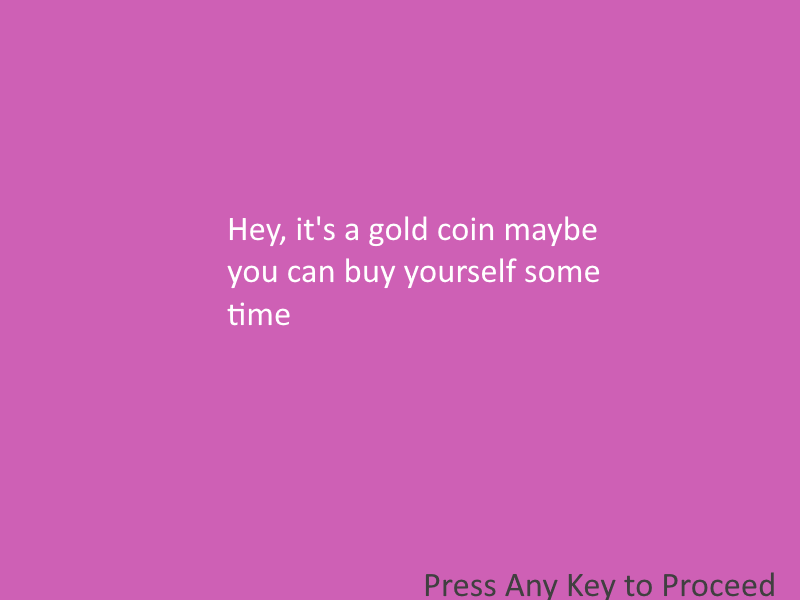
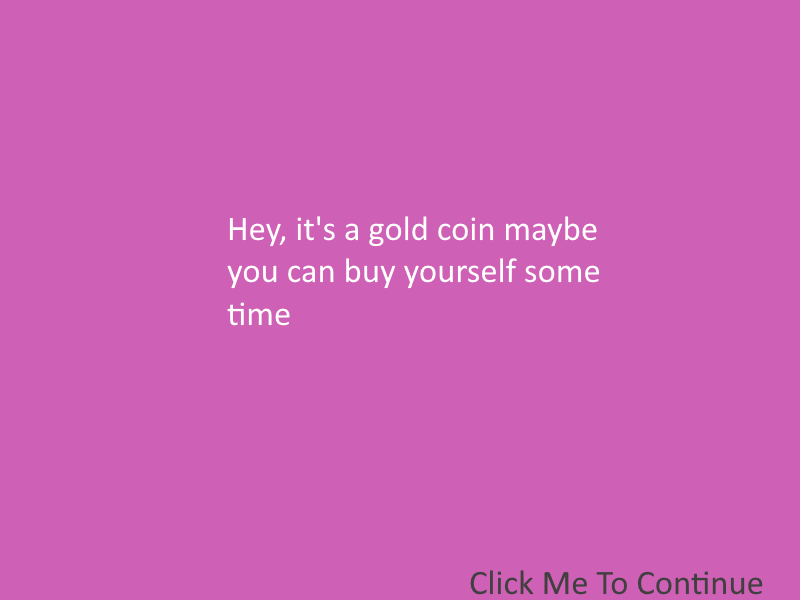
Changed How the player Interacts with the UI
Made the in game text larger

Changed region(s): [[0.5312, 0.93, 0.9688, 1.0]]

diff --git a/prototyping1/Assets/Scripts/StudentScripts/DeanteJames/DeanteJames_TimerLogic.cs b/prototyping1/Assets/Scripts/StudentScripts/DeanteJames/DeanteJames_TimerLogic.cs
@@ -121,16 +121,20 @@ public class DeanteJames_TimerLogic : MonoBehaviour
     // Update is called once per frame
     void Update()
     {
-        if (Input.anyKeyDown)
+        if (Input.anyKeyDown && !GameHasStarted)
         { 
             GameHasStarted = true;
+
+            ShowDifficultyBar();
+        }
+
+        if (Input.GetKeyDown(KeyCode.Mouse0))
+        {
             if (GameIsPaused)
             {
                 GameIsPaused = false;
                 unPauseGame();
             }
-
-            ShowDifficultyBar();
         }
 
         if (!GameHasStarted || GameIsPaused)
